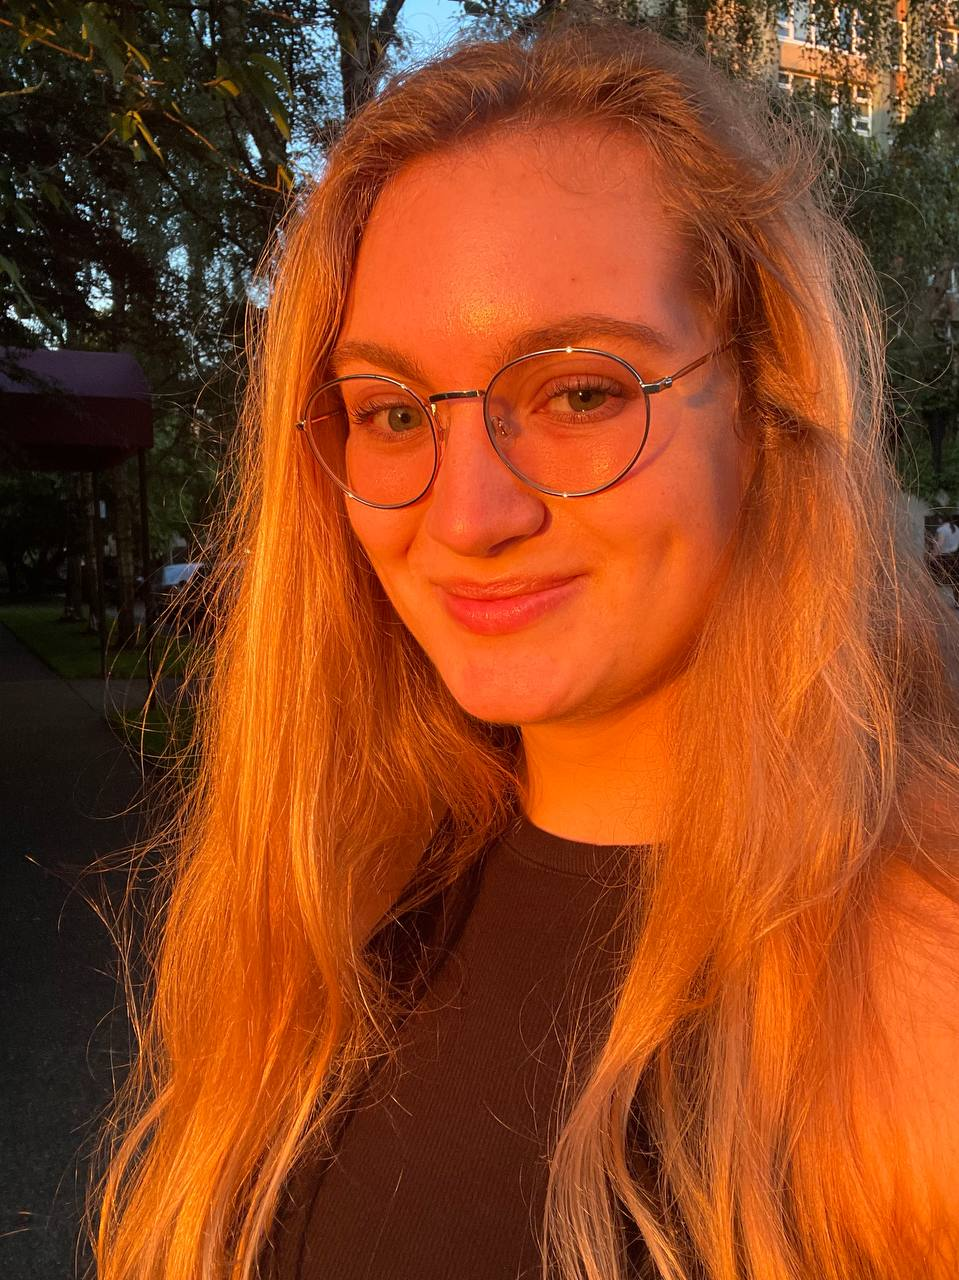
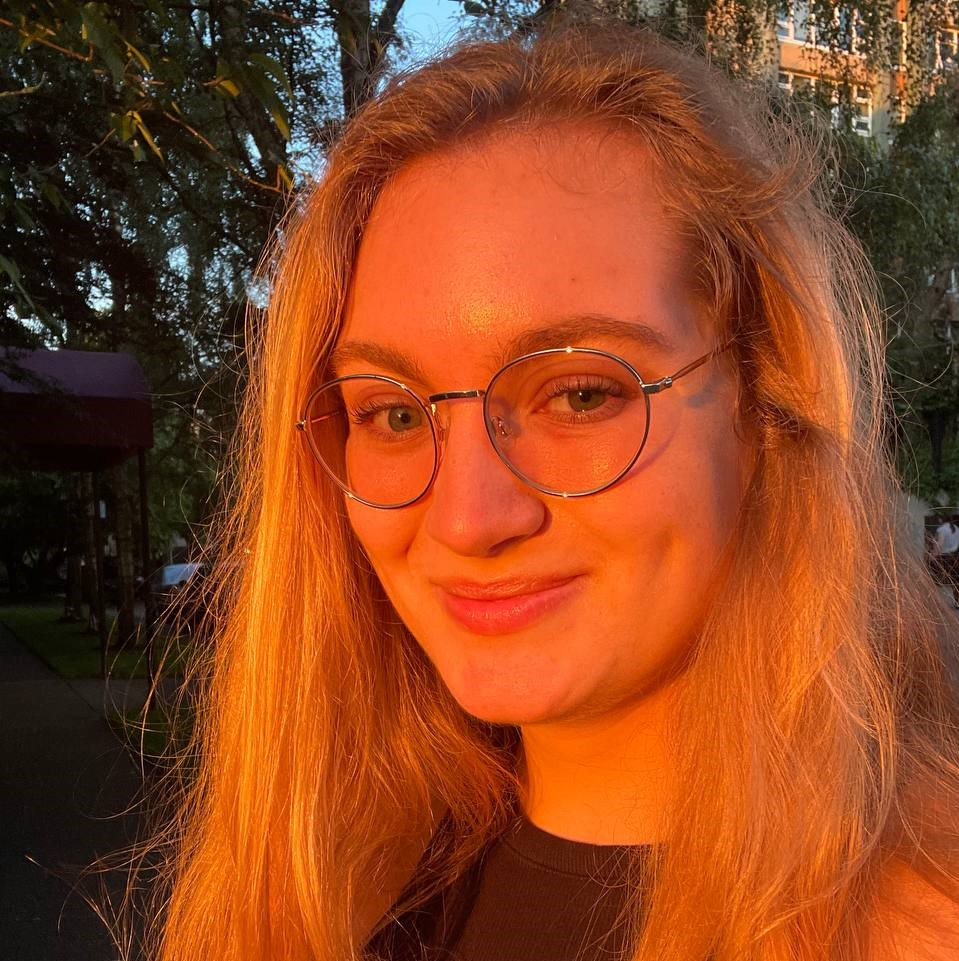
added information about main hero and photo

diff --git a/about.html b/about.html
@@ -63,14 +63,34 @@
       </div>
     </nav>
     <div class="container">
-      <div class="background">
+      <div class="my-projects">
+        <div class="d-flex justify-content-center mb-5">
+          <div class="content col">
+            <h3 class="d-none d-lg-block">Hi I am Ksenia Oliinyk</h3>
+            <h3 class="d-lg-none">Ksenia Oliinyk</h3>
+            <h4>Frontend Developer, based in Canada.</h4>
+            <p>
+              For anyone who wants to start learning code, this workshop is very
+              interesting. You will be challenged with different exercises, and
+              everything is well explained, homework and deadlines are good for
+              keep focus
+            </p>
+            <a href="#" class="btn btn-primary">Learn more</a>
+          </div>
+          <img
+            class="col d-none d-lg-block rounded"
+            src="./images/photo_2023-10-19_19-24-42.jpg"
+          />
+        </div>
+      </div>
+      <div class="background content">
         <div class="col my-projects m-5 row">
-          <div class="col-8">
+          <div class="col">
             <h3>Work Inquiry</h3>
             <p>Let’s work together and i’ll help you by all my best</p>
           </div>
           <div class="col">
-            <a href="#" class="btn">Let's talk here</a>
+            <a href="#" class="btn mb-3">Let's talk here</a>
           </div>
         </div>
       </div>

diff --git a/styles/portfolio.css b/styles/portfolio.css
@@ -25,7 +25,7 @@ p {
   font-family: var(--default-font-family);
   font-weight: normal;
 }
-nav {
+.main-page {
   background-color: var(--secondary-color);
   font-family: var(--default-font-family);
   font-size: 16px;
@@ -80,6 +80,9 @@ nav li {
   height: 560px;
   width: auto;
 }
+.my-projects h4 {
+  font-family: var(--default-font-family);
+}
 .my-projects h3 {
   font-size: 64px;
   line-height: 100px;
@@ -128,9 +131,10 @@ nav li {
   .my-projects a {
     background-color: var(--secondary-color);
   }
-  .my-projects h2 {
+  .my-projects h2,
+  h3 {
     font-size: 32px;
-    line-height: 48px;
+    line-height: 32px;
   }
   .hero p {
     font-size: 24px;

diff --git a/index.html b/index.html
@@ -28,7 +28,7 @@
     <title>Document</title>
   </head>
   <body>
-    <nav class="navbar navbar-expand-lg ps-5 p-5">
+    <nav class="main-page navbar navbar-expand-lg ps-5 p-5">
       <div class="container-fluid">
         <a class="navbar-brand me-5 col-8" href="#">
           <img class="logo" src="images/ySjA-logo.png " />
